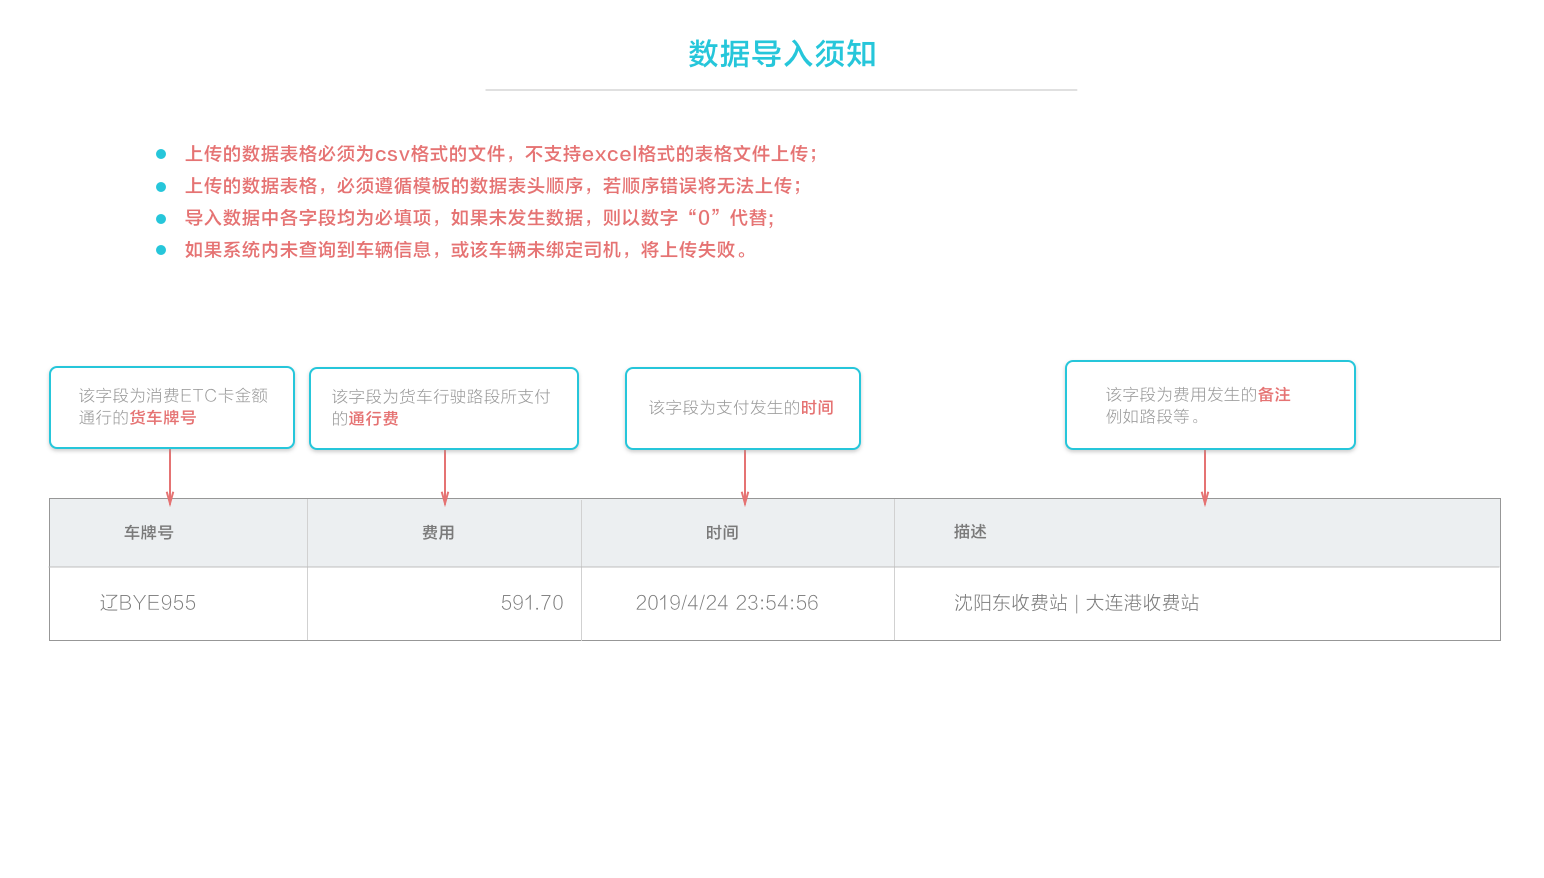
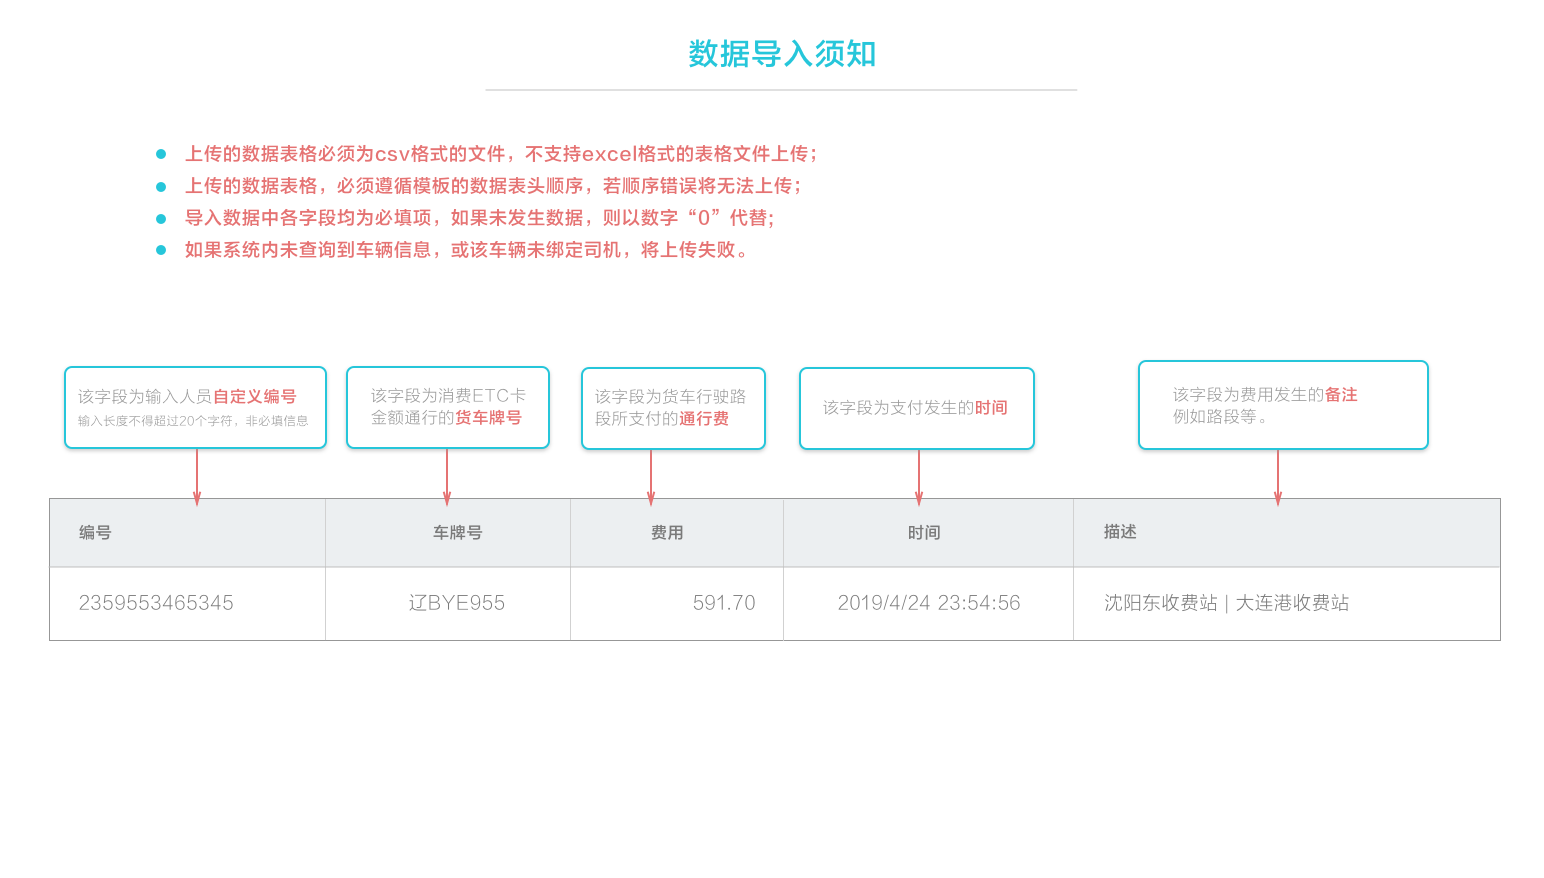
出车款加其它费用    etc修改

diff --git a/web/js/view/truck/import_etc.html b/web/js/view/truck/import_etc.html
@@ -1,4 +1,4 @@
-<!--查询模态框-->
+<!--查询模态框
 <div class="modal" id="file_detail_modal">
     <div>
         <p class="center-align cyan-text text-lighten-1">
@@ -42,7 +42,7 @@
             </tbody>
         </table>
     </div>
-</div>
+</div>-->
 
 <div class="modal-content grey-text text-darken-2">
     <div class="row no-marBottom" ul-tabs style="overflow: hidden">
@@ -169,38 +169,57 @@
         <div id="lookMyselfFile" class="row tab_box" style="margin-top: 50px;">
             <div class="col s10" style="margin-bottom: 20px;">
                 <!--司机   货车牌号  -->
-                <div class="col s12" style="height: 70px">
+                <div class="col s12">
 
-                    <div class="col s2 input-field">
+                    <div class="col s3 input-field">
                         <select material-select watch ng-model="driveName" id="driveName" style="width: 100%" >
                             <option value="" selected>请选择</option>
                             <option ng-repeat="addDrivder in driveNameList" ng-value='addDrivder.id'>{{addDrivder.drive_name}}</option>
                         </select>
                     </div>
 
-                    <div class="col s2 input-field">
+                    <div class="col s3 input-field">
                         <select  material-select watch ng-model="truckId" id="truckId"  style="width: 100%">
                             <option value="" selected>请选择</option>
                             <option ng-repeat="truckNumItem in truckNumListAllList" ng-value="truckNumItem.id">{{truckNumItem.truck_num}}({{truckNumItem.truck_type == 1 ? "头车" : "挂车"}})</option>
                         </select>
                     </div>
+
+                    <div class="col s3 input-field">
+                        <select material-select watch id="paymentType"  ng-model="paymentType">
+                            <option value="">请选择</option>
+                            <option value="1">否</option>
+                            <option value="2">是</option>
+                        </select>
+                        <label for="paymentType">财务打款</label>
+                    </div>
+                    <div class="col s3 input-field">
+                        <select material-select watch id="paymentStuts" ng-model="paymentStuts">
+                            <option value="">请选择</option>
+                            <option value="-1">驳回</option>
+                            <option value="0">未处理</option>
+                            <option value="1">已付款</option>
+                        </select>
+                        <label for="paymentStuts">打款状态</label>
+                    </div>
+
                     <!--时间查询（始）-->
-                    <div class="col s2 input-field">
+                    <div class="col s3 input-field">
                         <input type="text" ng-model="startDate" id="putStartTime" name="putStartTime"  class="datepicker" autocomplete="off"    date><i class="mdi dataIcon mdi-table-large"></i>
                         <label for="putStartTime">交易时间(始)</label>
                     </div>
 
                     <!--时间查询（终）-->
-                    <div class="col s2 input-field">
+                    <div class="col s3 input-field">
                         <input type="text" ng-model="endDate" id="putEndTime" name="putEndTime"  class="datepicker" autocomplete="off"   date><i class="mdi dataIcon mdi-table-large"></i>
                         <label for="putEndTime">交易时间(终)</label>
                     </div>
 
-                    <div class="col s2 input-field">
+                    <div class="col s3 input-field">
                         <input type="text" ng-model="createdOnStart" id="createdOnStart" name="createdOnStart"  class="datepicker" autocomplete="off"   date><i class="mdi dataIcon mdi-table-large"></i>
                         <label for="createdOnStart">创建范围(始)</label>
                     </div>
-                    <div class="col s2 input-field">
+                    <div class="col s3 input-field">
                         <input type="text" ng-model="createdOnEnd" id="createdOnEnd" name="createdOnEnd"  class="datepicker" autocomplete="off"   date><i class="mdi dataIcon mdi-table-large"></i>
                         <label for="createdOnEnd">创建范围(终)</label>
                     </div>
@@ -209,22 +228,7 @@
                 </div>
             </div>
             <!--查询-->
-    <!--        <div class="col s2  flex flex-round" style="margin-top: 5px;">
-                <a class="btn-floating btn-large waves-light waves-effect red lighten-2  btn vc-center"
-                   style="margin-right: 10px" ng-click="searchETCList()">
-                    <i class="mdi mdi-magnify"></i>
-                </a>
-
-
-                <div class="col s6 center-align">
-                    <a class="btn-floating btn-large waves-light waves-effect btn vc-center" style="background-color: #fea353;" ng-click="export()">
-                        <i class="mdi mdi-cloud-download"></i>
-                    </a>
-                </div>
-            </div>
--->
-
-            <div class="col s2 center" style="margin-top: 5px;">
+            <div class="col s2 center" style="margin-top: 35px;">
                 <div class="col s6 right-align">
                     <a class="btn-floating btn-large waves-light waves-effect red lighten-2  btn vc-center"
                        style="margin-right: 10px" ng-click="searchETCList()">
@@ -237,9 +241,6 @@
                         <i class="mdi mdi-cloud-download"></i>
                     </a>
                 </div>
-
-
-
             </div>
 
 
@@ -261,6 +262,8 @@
                             <th data-field="">司机</th>
                             <th data-field="">货车牌号</th>
                             <th data-field="">通行费</th>
+                            <th data-field="">财务打款</th>
+                            <th data-field="">状态</th>
                             <th data-field="">交易时间</th>
                             <th data-field="">创建时间</th>
                             <th data-field="">描述</th>
@@ -268,10 +271,12 @@
                         </thead>
                         <tbody>
                         <tr ng-repeat="fileInfo in importedFilesList" class="grey-text text-darken-1">
-                            <td>{{fileInfo.id}}</td>
+                            <td>{{fileInfo.number}}</td>
                             <td>{{fileInfo.drive_name}}</td>
                             <td>{{fileInfo.truck_num}}</td>
                             <td class="red-text" >{{fileInfo.etc_fee}}</td>
+                            <td>{{fileInfo.payment_type==1?'否':'是'}}</td>
+                            <td>{{fileInfo.payment_status==0?'未打款':fileInfo.payment_status==1?'已打款':'驳回'}}</td>
                             <td>{{fileInfo.date_id}}</td>
                             <td>{{fileInfo.created_on | date:'yyyyMMdd'}}</td>
                             <td>{{fileInfo.remark}}</td>
@@ -314,23 +319,36 @@
         <div class="row col s12">
             <div class="row">
                 <!--货车牌号 费用 时间 描述 -->
-                 <div class="col s3 input-field">
+                <div class="col s2 input-field">
+                    <input type="number" id="addnumber" name="addnumber" ng-model="addnumber">
+                    <label for="addnumber">编号</label>
+                </div>
+                 <div class="col s2 input-field">
                    <select material-select watch ng-model="addDrivderId" id="addDrivderId"  ng-change="changeDriver(addDrivderId.id)" style="width: 100%" >
                        <option value="" selected>请选择</option>
                        <option ng-repeat="addDrivder in driveNameList" ng-value=addDrivder>{{addDrivder.drive_name}}</option>
                    </select>
-               </div>
-                <div class="col s3 input-field">
+                </div>
+                <div class="col s2 input-field">
                     <select ng-model="truckNum" id="truckNum"  style="width: 100%">
                         <option value="" selected>请选择</option>
                         <option ng-repeat="truckNumItem in truckNumListAllList" ng-value="truckNumItem.id">{{truckNumItem.truck_num}}</option>
                     </select>
                 </div>
-                <div class="col s3 input-field">
+                <div class="col s2 input-field">
+                    <select material-select watch id="has_loan" ng-model="hasLoan">
+                        <option value="" selected>请选择</option>
+                        <option value="1">否</option>
+                        <option value="2">是</option>
+                    </select>
+                    <label for="has_loan">是否财务打款</label>
+                </div>
+
+                <div class="col s2 input-field">
                     <input type="number" id="addCount" name="addCount" ng-model="addCount">
                     <label for="addCount">费用</label>
                 </div>
-                <div class="col s3 input-field">
+                <div class="col s2 input-field">
                     <input type="text" ng-model="happenTime" id="happenTime" name="happenTime"  class="datepicker" autocomplete="off" required   date>
                     <i class="mdi dataIcon mdi-table-large"></i>
                     <label for="happenTime">时间</label>

diff --git a/web/js/controller/truck/import_etc_controller.js b/web/js/controller/truck/import_etc_controller.js
@@ -48,6 +48,7 @@ app.controller("import_etc_controller", ["$scope", "$state", "$stateParams", "_b
 
     // 过滤条件数据
     var colObjs = [
+        {name: '编号', type: 'string',require: false},
         {name: '车牌号', type: 'string',require: true},
         {name: '费用', type: 'number', require: true},
         {name: '时间', type: 'string', require: true},
@@ -267,6 +268,8 @@ app.controller("import_etc_controller", ["$scope", "$state", "$stateParams", "_b
                 etcDatenEnd: $scope.endDate,
                 createdOnStart:$scope.createdOnStart,
                 createdOnEnd:$scope.createdOnEnd,
+                paymentType:$scope.paymentType,
+                paymentStuts:$scope.paymentStuts,
                 start:$scope.start,
                 size:$scope.size
             })).then(function (data) {
@@ -296,6 +299,8 @@ app.controller("import_etc_controller", ["$scope", "$state", "$stateParams", "_b
             _basic.get($host.api_url + "/truckEtcFeeCount?"+ _basic.objToUrl({
                 truckId:  $scope.truckId,
                 driveId:  $scope.driveName,
+                paymentType:$scope.paymentType,
+                paymentStuts:$scope.paymentStuts,
                 etcDateStart: $scope.startDate,
                 etcDatenEnd: $scope.endDate,
                 createdOnStart:$scope.createdOnStart,
@@ -370,6 +375,8 @@ app.controller("import_etc_controller", ["$scope", "$state", "$stateParams", "_b
         $scope.truckNumListAllList=[];
         $scope.truckNum='';
         $scope.addCount='';
+        $scope.addnumber='';
+        $scope.hasLoan ='';
         $scope.happenTime='';
         $scope.remark='';
         getDriveNameList();
@@ -399,15 +406,17 @@ app.controller("import_etc_controller", ["$scope", "$state", "$stateParams", "_b
 
     function addItem(){
 
-        if ($scope.addDrivderId!==''&&$scope.truckNum!==''&&$scope.addCount!==''&&$scope.happenTime!=='') {
+        if ($scope.addDrivderId!==''&&$scope.truckNum!==''&&$scope.addCount!==''&&$scope.addCount!==null&&$scope.happenTime!==''&&$scope.happenTime!==undefined&&$scope.hasLoan!=='') {
             var obj = {
+                "number":$scope.addnumber,
                 "driveId": $scope.addDrivderId.id,
                 "driveName": $scope.addDrivderId.drive_name,
                 "truckId": $scope.truckNum,
                 "truckNum": $scope.truckNumberName,
                 "etcFee": $scope.addCount,
                 "etcDate": $scope.happenTime,
-                "remark":   $scope.remark
+                "remark":   $scope.remark,
+                "paymentType":$scope.hasLoan
             };
             _basic.post($host.api_url + "/user/" + userId + "/truckEtc", obj).then(function (data) {
                 if (data.success == true) {
@@ -423,7 +432,17 @@ app.controller("import_etc_controller", ["$scope", "$state", "$stateParams", "_b
             swal("请输入完整信息！", "", "warning");
         }
     }
-
+   /*  // 判断是否允许输入财务借款
+      $scope.checkHasLoan = function () {
+          if($scope.hasLoan == 1){
+              $scope.hasLoanType = false;
+          }
+          else{
+              $scope.addCount = 0;
+              $scope.hasLoanType = true;
+          }
+      };
+*/
 
     // 分页
     $scope.previous_page = function () {

diff --git a/web/js/view/finance/route_fee.html b/web/js/view/finance/route_fee.html
@@ -116,10 +116,7 @@
                     <th data-field="">商品车加油费</th>
                     <th data-field="">货车停车费</th>
                     <th data-field="">商品车停车费</th>
-                    <th data-field="">现金ETC</th>
-                    <th data-field="">现金维修</th>
-                    <th data-field="">现金违章</th>
-                    <th data-field="">现金加油</th>
+                    <th data-field="">其它费用</th>
                     <th data-field="">申请时间</th>
                     <th data-field="">银行账号</th>
                     <th data-field="">户名</th>
@@ -147,10 +144,7 @@
                     <td>{{costInfo.car_oil_fee}}</td>
                     <td>{{costInfo.total_price}}</td>
                     <td>{{costInfo.car_total_price}}</td>
-                    <td>{{costInfo.cash_etc}}</td>
-                    <td>{{costInfo.cash_repair}}</td>
-                    <td>{{costInfo.cash_peccancy}}</td>
-                    <td>{{costInfo.cash_oil}}</td>
+                    <td>{{costInfo.other_fee}}</td>
                     <td>{{costInfo.created_on|date:'yyyy-MM-dd HH:mm:ss'}}</td>
                     <td>{{costInfo.bank_number}}</td>
                     <td>{{costInfo.bank_name}}</td>
@@ -174,7 +168,7 @@
                     </td>
                 </tr>
                 <tr ng-if="costList.length==0">
-                    <td colspan="16">暂无数据</td>
+                    <td colspan="13">暂无数据</td>
                 </tr>
                 </tbody>
             </table>
